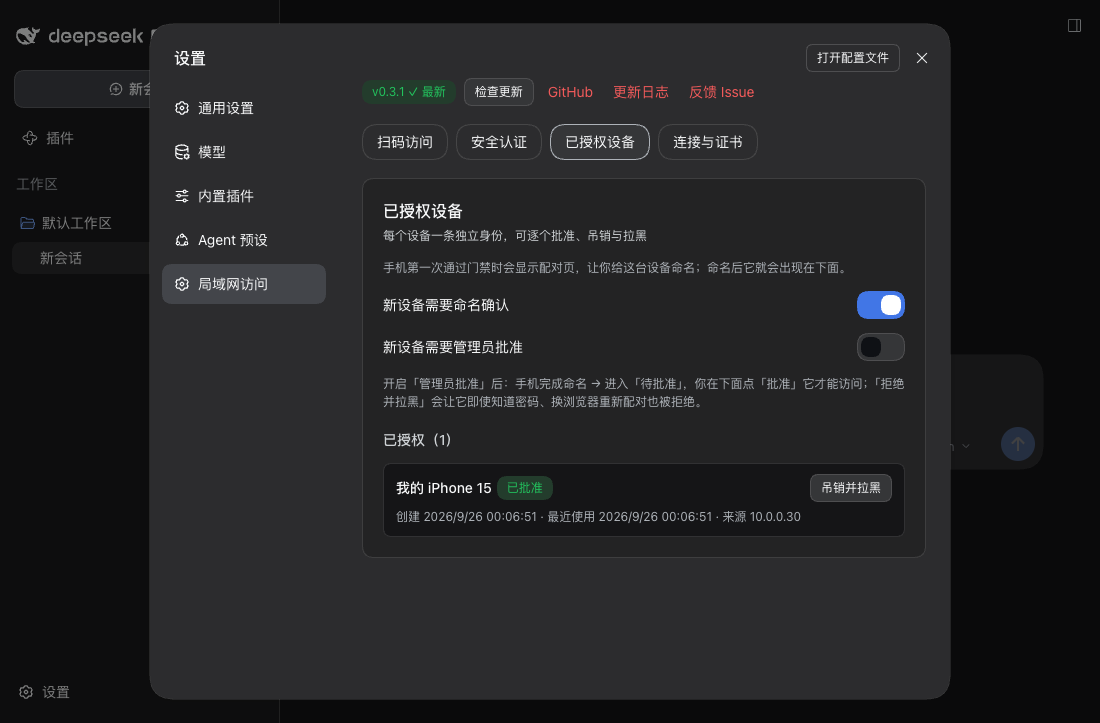
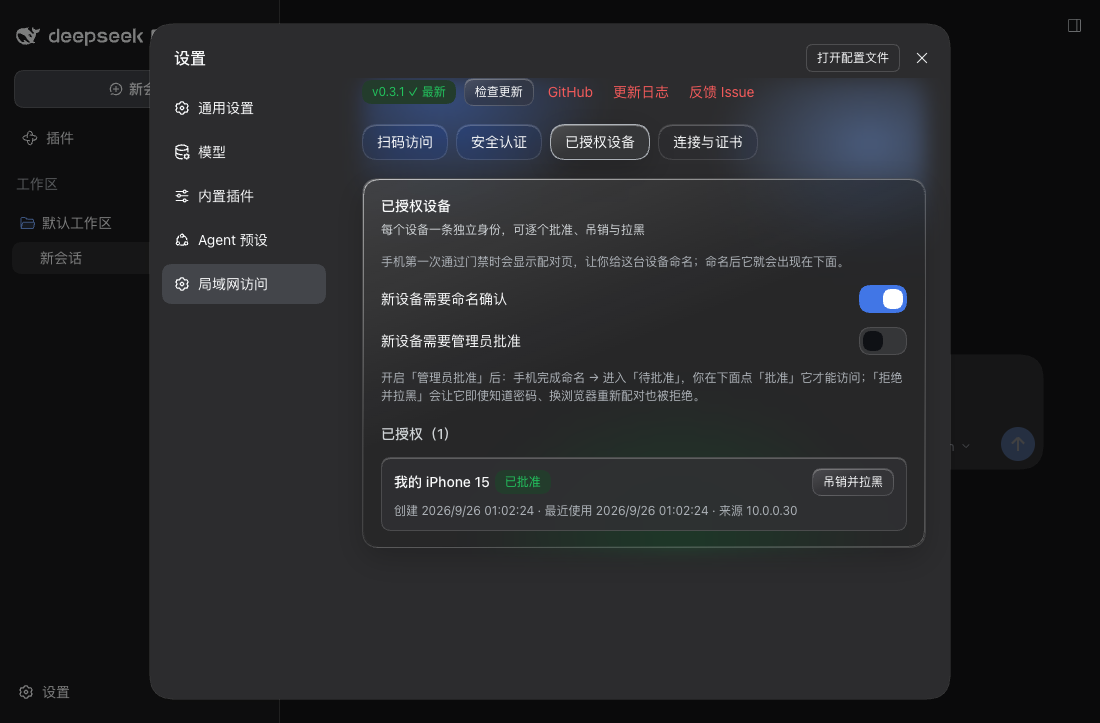
feat(ui): 设置页 Liquid Glass + 对齐 DSH 官方尺度 + 可复制字段单行滚动 (#1)
* feat(ui): 设置页 Liquid Glass 液体玻璃材质

毛玻璃 + 跟随主题的折射光晕 + 镜面渐变描边 + 分层投影，仅作用于插件自己的
设置分区（不替换任何官方布局）。

- 全部材质由官方令牌经 color-mix 派生，浅色/深色自动适配，不发明 token 名、
  不依赖内部属性（避免 2026-09-24 的对比度事故）
- 每个表面先声明纯色令牌回退，再声明玻璃层：color-mix / backdrop-filter 不受
  支持时后一条在解析期被丢弃，卡片退回完全可读的令牌表面
- 镜面边缘用 mask 只保留 1px 边框环；光晕层 inset:0，不给官方弹窗引入溢出
- 二维码底板刻意保持不透明（半透明会降低对比度、可能扫不出来）
- 实测：getComputedStyle 确认 backdrop-filter=blur(20px) saturate(1.8)、
  深浅色 tint 分别解析为 #232324 62% / #fff 62%、镜面渐变与 mask 生效、
  .lg-qr 背景为 rgb(255,255,255)；深浅色各截图确认
- pnpm test 241 项全绿，pnpm run build 通过

* fix(ui): 设置页尺寸对齐 DSH 官方尺度，提示条按钮不再折行

实测官方设置页：控件 36px 高 / 14px-22px / 字重 400 / 圆角 12px
（--dsw-radius-md）；插件此前是 44px / 500 字重 / 10px 圆角 / 卡片标题 16px，
因此观感偏大。全部照官方实测值对齐，不发明新尺度。

- 控件 44→36px，内边距 0 16px→0 14px，圆角 10px→var(--dsw-radius-md,12px)，
  按钮字重 500→400
- 卡片标题 16px/24px→14px/22px（与官方 section 标签、.lg-label 统一），
  字段标签 13→14px，卡片内边距 20px→16px 18px，选择卡/设备行/升级面板圆角→12px
- 提示条按钮：32px 高 / 13px / 400 + flex:0 0 auto + white-space:nowrap；
  文本 flex:1 1 16ch;min-width:0，故文本在自身内部换行、按钮永远整行；
  .lg-bar 加 flex-wrap:wrap 作极窄容器的降级
- 触屏仍保留既有 44px 最小高度（@media hover:none/pointer:coarse 未动）

实测：1100px 与 820px（弹窗内容区 536px）两档，按钮 scrollWidth===clientWidth
（不折行）；控件高度/字号/字重/圆角与官方设置页一致。pnpm test 241 项全绿。

* feat(ui): 可复制字段改为单行横向滚动（访问地址 / 升级命令）

访问地址此前在卡片里硬折行成两行，占掉垂直空间。现改为单行可横向滚动的
字段，框高由约 62px 降到 42px。

- 新增 .lg-mono-scroll：white-space:nowrap + overflow-x:auto + word-break:normal
  （规则放在 .lg-mono 之后以确保覆盖其 break-all），6px 细滚动条、cursor:text、
[…]

Changed region(s): [[0.34, 0.3956, 0.8345, 0.7607], [0.3091, 0.0913, 0.7727, 0.426], [0.68, 0.0913, 0.8655, 0.3043]]

diff --git a/src/client.ts b/src/client.ts
@@ -146,7 +146,31 @@ const CSS = `
  * official --dsw-alias-* variables, and only the URL box overrides the family
  * (with the official code font).
  */
-.lg-root{max-width:790px;display:flex;flex-direction:column;gap:18px}
+.lg-root{max-width:790px;display:flex;flex-direction:column;gap:18px;
+  /* Liquid Glass (user request 2026-09-26). One material definition, every
+     value DERIVED from official tokens through color-mix, so the same rules
+     follow the light/dark palette with no theme branch and no invented token
+     name (see the 2026-09-24 contrast incident). Each surface below still
+     declares its solid token colour FIRST: if color-mix or backdrop-filter is
+     unsupported the later declaration is dropped at parse time and the card
+     stays a plain, fully legible token surface. */
+  --lg-blur:blur(20px) saturate(180%);
+  --lg-tint:color-mix(in srgb, var(--dsw-alias-bg-layer-1,#fff) 62%, transparent);
+  --lg-tint-soft:color-mix(in srgb, var(--dsw-alias-bg-layer-3,#f1f2f4) 62%, transparent);
+  --lg-edge:color-mix(in srgb, var(--dsw-alias-label-primary,#1f2329) 14%, transparent);
+  --lg-sheen:linear-gradient(158deg, color-mix(in srgb, #fff 12%, transparent) 0%, transparent 46%);
+  --lg-lift:0 10px 30px color-mix(in srgb, #000 20%, transparent),
+           inset 0 1px 0 color-mix(in srgb, #fff 30%, transparent),
+           inset 0 -1px 0 color-mix(in srgb, #000 7%, transparent);
+  position:relative;isolation:isolate}
+/* The light the glass refracts. Scoped to this plugin's own subtree and kept
+   at inset:0 so it can never add overflow to the official settings dialog. */
+.lg-root::before{content:'';position:absolute;inset:0;z-index:-1;pointer-events:none;border-radius:24px;
+  background:
+    radial-gradient(42% 36% at 14% 3%, color-mix(in srgb, var(--dsw-static-deepseek-500,#4176e6) 44%, transparent), transparent 70%),
+    radial-gradient(38% 32% at 90% 14%, color-mix(in srgb, var(--dsw-alias-state-business-primary,#1a3f8f) 38%, transparent), transparent 72%),
+    radial-gradient(50% 44% at 56% 100%, color-mix(in srgb, var(--dsw-alias-state-success-primary,#1b5e20) 30%, transparent), transparent 74%);
+  filter:blur(10px)}
 /*
  * Tab bar = the OFFICIAL segmented-control pattern (the 外观 浅色/深色/跟随系统
  * selector in 通用设置): every item keeps the SAME font and the SAME
@@ -158,14 +182,33 @@ const CSS = `
 .lg-tabs{display:flex;gap:8px;flex-wrap:wrap}
 .lg-tab{font:var(--dsw-font-s-14,14px/22px sans-serif);cursor:pointer;
   color:var(--dsw-alias-label-primary,#1f2329);background:transparent;
-  border:0.5px solid var(--dsw-alias-border-l2,#e5e6eb);border-radius:20px;padding:6px 14px}
+  border:0.5px solid var(--dsw-alias-border-l2,#e5e6eb);border-radius:20px;padding:6px 14px;
+  backdrop-filter:blur(10px) saturate(150%);-webkit-backdrop-filter:blur(10px) saturate(150%);
+  box-shadow:inset 0 1px 0 color-mix(in srgb, #fff 22%, transparent)}
 .lg-tab[aria-selected=true]{background:var(--dsw-alias-bg-layer-3,#f1f2f4);
-  border-color:var(--dsw-alias-label-tertiary,#adb2b8)}
+  border-color:var(--dsw-alias-label-tertiary,#adb2b8);
+  background-image:var(--lg-sheen);box-shadow:var(--lg-lift)}
 .lg-tabbody{display:flex;flex-direction:column;gap:18px}
 .lg-card{background:var(--dsw-alias-bg-layer-1,#fff);border:1px solid var(--dsw-alias-border-l2,#e5e6eb);
-  border-radius:14px;padding:20px}
+  border-radius:20px;padding:16px 18px;
+  background-color:var(--lg-tint);background-image:var(--lg-sheen);
+  border-color:var(--lg-edge);
+  backdrop-filter:var(--lg-blur);-webkit-backdrop-filter:var(--lg-blur);
+  box-shadow:var(--lg-lift);position:relative}
+/* Specular rim: a 1px gradient edge that is bright where the "light" enters
+   and fades away from it — the part of Liquid Glass that reads as glass rather
+   than as a plain translucent panel. Masked to the border ring only. */
+.lg-card::after,.lg-choice::after{content:'';position:absolute;inset:0;border-radius:inherit;padding:1px;
+  background:linear-gradient(152deg,
+    color-mix(in srgb, #fff 55%, transparent) 0%,
+    color-mix(in srgb, #fff 8%, transparent) 38%,
+    transparent 62%,
+    color-mix(in srgb, #fff 22%, transparent) 100%);
+  -webkit-mask:linear-gradient(#000 0 0) content-box, linear-gradient(#000 0 0);
+  -webkit-mask-composite:xor;mask:linear-gradient(#000 0 0) content-box, linear-gradient(#000 0 0);
+  mask-composite:exclude;pointer-events:none}
 .lg-head{display:flex;align-items:flex-start;justify-content:space-between;gap:12px}
-.lg-title{font:var(--dsw-font-base-strong-16,500 16px/24px sans-serif);margin:0;
+.lg-title{font:var(--dsw-font-s-strong-14,500 14px/22px sans-serif);margin:0;
   color:var(--dsw-alias-label-primary,#1f2329)}
 .lg-sub{font:var(--dsw-font-xxs-12,12px/18px sans-serif);margin:4px 0 0;
   color:var(--dsw-alias-label-secondary,#6b7280)}
@@ -173,25 +216,53 @@ const CSS = `
   font:var(--dsw-font-xxs-12,12px/18px sans-serif);white-space:nowrap;
   background:var(--dsw-alias-state-success-tertiary,#e8f5e9);color:var(--dsw-alias-state-success-primary,#1b5e20)}
 .lg-pill.off{background:var(--dsw-alias-bg-layer-3,#f1f2f4);color:var(--dsw-alias-label-secondary,#6b7280)}
-.lg-bar{display:flex;align-items:center;gap:8px;justify-content:space-between;margin-top:16px;padding:10px 12px;
-  border-radius:10px;font:var(--dsw-font-xs-13,13px/20px sans-serif);
+.lg-bar{display:flex;align-items:center;gap:10px;justify-content:space-between;flex-wrap:wrap;margin-top:16px;padding:8px 12px;
+  border-radius:var(--dsw-radius-md,12px);font:var(--dsw-font-xs-13,13px/20px sans-serif);
   background:var(--dsw-alias-state-success-tertiary,#e8f5e9);color:var(--dsw-alias-state-success-primary,#1b5e20)}
+/* The notice text shrinks and wraps INSIDE itself; the action keeps its
+   intrinsic width and never breaks mid-label (user report 2026-09-26: the
+   button read "去设置访 / 问密码"). */
+/* A non-zero basis keeps the text from collapsing to nothing, so a tight
+   container wraps the ACTION to its own line instead of squeezing it. */
+.lg-bar>span:first-child{flex:1 1 16ch;min-width:0}
+.lg-bar .lg-btn{flex:0 0 auto;white-space:nowrap;height:32px;padding:0 12px;
+  font:var(--dsw-font-xs-13,13px/20px sans-serif);font-weight:400}
 .lg-bar-compact{margin-top:0;padding:6px 10px}
 .lg-bar.info{background:var(--dsw-alias-state-business-tertiary,#e8f0fe);color:var(--dsw-alias-state-business-primary,#1a3f8f)}
 .lg-bar.warn{background:var(--dsw-alias-state-warn-tertiary,#fffbeb);color:var(--dsw-alias-state-warn-label,#92400e)}
 .lg-bar.danger{background:var(--dsw-alias-interactive-bg-hover-danger,#fef2f2);color:var(--dsw-alias-state-error-primary,#b91c1c)}
 .lg-mono-sm{font:var(--dsw-font-xxs-12,12px/18px sans-serif)}
-.lg-mono{margin-top:14px;padding:10px 12px;border-radius:10px;background:var(--dsw-alias-bg-base,#f1f2f4);
+.lg-mono{margin-top:14px;padding:10px 12px;border-radius:12px;background:var(--dsw-alias-bg-base,#f1f2f4);
   border:1px solid var(--dsw-alias-border-l2,#e5e6eb);
+  background-color:color-mix(in srgb, var(--dsw-alias-bg-base,#f1f2f4) 70%, transparent);
+  border-color:var(--lg-edge);
+  backdrop-filter:blur(12px) saturate(150%);-webkit-backdrop-filter:blur(12px) saturate(150%);
+  box-shadow:inset 0 1px 2px color-mix(in srgb, #000 10%, transparent),
+             inset 0 1px 0 color-mix(in srgb, #fff 18%, transparent);
   font:var(--dsw-font-xs-13,13px/20px sans-serif);
   font-family:var(--ds-font-family-code,ui-monospace,SFMono-Regular,Menlo,monospace);
   word-break:break-all;color:var(--dsw-alias-label-primary,#1f2329)}
+/* Copyable values (the access URL, the upgrade command) are SINGLE-LINE fields:
+   no hard wrapping, horizontal scrolling instead, so a long URL can no longer
+   push the rest of the card down (user request 2026-09-26). Scrolling never
+   truncates what you get — the copy button writes the source string, never the
+   rendered text — and the thin scrollbar makes "there is more to the right"
+   visible. Dragging inside the field selects and auto-scrolls, like a text box. */
+.lg-mono-scroll{white-space:nowrap;overflow-x:auto;overflow-y:hidden;word-break:normal;
+  cursor:text;scrollbar-width:thin}
+.lg-mono-scroll::-webkit-scrollbar{height:6px}
+.lg-mono-scroll::-webkit-scrollbar-track{background:transparent}
+.lg-mono-scroll::-webkit-scrollbar-thumb{border-radius:999px;
+  background:color-mix(in srgb, var(--dsw-alias-label-tertiary,#adb2b8) 55%, transparent)}
 .lg-row{display:flex;gap:10px;margin-top:12px}
 /* auto-fit: two options (TLS) fill the row evenly instead of leaving a third
    of the row empty, and three options (mode) still fit on one line. */
 .lg-grid{display:grid;grid-template-columns:repeat(auto-fit,minmax(190px,1fr));gap:10px;margin-top:12px}
-.lg-choice{text-align:left;cursor:pointer;border-radius:12px;padding:14px;background:var(--dsw-alias-bg-layer-1,#fff);
-  border:1px solid var(--dsw-alias-border-l2,#e5e6eb);color:inherit}
+.lg-choice{text-align:left;cursor:pointer;border-radius:var(--dsw-radius-md,12px);padding:12px 14px;background:var(--dsw-alias-bg-layer-1,#fff);
+  border:1px solid var(--dsw-alias-border-l2,#e5e6eb);color:inherit;
+  background-color:var(--lg-tint);background-image:var(--lg-sheen);border-color:var(--lg-edge);
+  backdrop-filter:var(--lg-blur);-webkit-backdrop-filter:var(--lg-blur);box-shadow:var(--lg-lift);
+  position:relative}
 .lg-choice[aria-pressed=true]{border:2px solid var(--dsw-static-deepseek-500,#4f46e5);
   background:var(--dsw-alias-interactive-bg-hover,#eef0ff)}
 .lg-choice h4{font:var(--dsw-font-s-strong-14,500 14px/22px sans-serif);margin:0 0 6px;
@@ -199,19 +270,30 @@ const CSS = `
 .lg-choice p{font:var(--dsw-font-xxs-12,12px/18px sans-serif);margin:0;
   color:var(--dsw-alias-label-secondary,#6b7280)}
 .lg-field{display:flex;flex-direction:column;gap:6px;margin-top:14px}
-.lg-label{font:var(--dsw-font-xs-13,13px/20px sans-serif);color:var(--dsw-alias-label-secondary,#6b7280)}
-.lg-input{box-sizing:border-box;height:44px;padding:0 12px;border-radius:10px;border:1px solid var(--dsw-alias-border-l2,#d0d3d9);
+.lg-label{font:var(--dsw-font-s-14,14px/22px sans-serif);color:var(--dsw-alias-label-secondary,#6b7280)}
+.lg-input{box-sizing:border-box;height:36px;padding:0 14px;border-radius:var(--dsw-radius-md,12px);border:1px solid var(--dsw-alias-border-l2,#d0d3d9);
   font:var(--dsw-font-s-14,14px/22px sans-serif);
-  background:var(--dsw-alias-bg-base,#fff);color:var(--dsw-alias-label-primary,#1f2329)}
-.lg-btn{box-sizing:border-box;height:44px;padding:0 16px;border:0;border-radius:10px;cursor:pointer;
-  font:var(--dsw-font-s-strong-14,500 14px/22px sans-serif);
+  background:var(--dsw-alias-bg-base,#fff);color:var(--dsw-alias-label-primary,#1f2329);
+  background-color:color-mix(in srgb, var(--dsw-alias-bg-base,#fff) 74%, transparent);
+  border-color:var(--lg-edge);
+  backdrop-filter:blur(12px) saturate(150%);-webkit-backdrop-filter:blur(12px) saturate(150%);
+  box-shadow:inset 0 1px 2px color-mix(in srgb, #000 9%, transparent),
+             inset 0 1px 0 color-mix(in srgb, #fff 20%, transparent)}
+.lg-btn{box-sizing:border-box;height:36px;padding:0 14px;border:0;border-radius:var(--dsw-radius-md,12px);cursor:pointer;
+  font:var(--dsw-font-s-14,14px/22px sans-serif);
   /* Brand blue + the official white token (both are official variables): the
      reference implementation's primary action colour, chosen by the user
      2026-09-24 over the theme-dependent near-white default. */
   background:var(--dsw-static-deepseek-500,#4176e6);
-  color:var(--dsw-static-neutral-bluish-00,#fff)}
+  color:var(--dsw-static-neutral-bluish-00,#fff);
+  background-image:linear-gradient(180deg, color-mix(in srgb, #fff 22%, transparent), transparent 62%);
+  box-shadow:0 6px 18px color-mix(in srgb, var(--dsw-static-deepseek-500,#4176e6) 32%, transparent),
+             inset 0 1px 0 color-mix(in srgb, #fff 36%, transparent)}
 .lg-btn.secondary{background:var(--dsw-alias-bg-layer-3,#fff);color:var(--dsw-alias-label-primary,#1f2329);
-  border:1px solid var(--dsw-alias-border-l2,#d0d3d9)}
+  border:1px solid var(--dsw-alias-border-l2,#d0d3d9);
+  background-color:var(--lg-tint-soft);background-image:var(--lg-sheen);border-color:var(--lg-edge);
+  backdrop-filter:blur(12px) saturate(150%);-webkit-backdrop-filter:blur(12px) saturate(150%);
+  box-shadow:inset 0 1px 0 color-mix(in srgb, #fff 26%, transparent)}
 .lg-btn:disabled{opacity:.55;cursor:not-allowed}
 .lg-btn.full{width:100%}
 .lg-btn-small{height:28px;padding:0 10px;white-space:nowrap;flex-shrink:0;font:var(--dsw-font-xxs-12,12px/18px sans-serif)}
@@ -227,7 +309,9 @@ const CSS = `
 /* The white plate HUGS the code (fit-content + auto margins) instead of
    stretching across the card, and the code is a compact 190px — matching the
    reference implementation's proportions (user feedback 2026-09-24). */
-.lg-qr{margin:14px auto 0;padding:10px;border-radius:10px;background:#fff;
+/* Deliberately OPAQUE: a QR code on a translucent plate loses contrast and
+   may stop scanning. Never give this rule a glass treatment. */
+.lg-qr{margin:14px auto 0;padding:10px;border-radius:12px;background:#fff;
   border:1px solid var(--dsw-alias-border-l2,#e5e6eb);width:fit-content}
 .lg-qr svg{display:block;width:190px;height:190px}
 .lg-hint{font:var(--dsw-font-xxs-12,12px/18px sans-serif);margin:14px 0 0;
@@ -251,8 +335,11 @@ const CSS = `
 .lg-link{color:var(--dsw-alias-label-secondary,#6b7280);text-decoration:none;
   font:var(--dsw-font-xxs-12,12px/18px sans-serif)}
 .lg-link:hover{color:var(--dsw-alias-label-primary,#1f2329)}
-.lg-update-panel{margin:0;padding:12px;border-radius:10px;
-  background:var(--dsw-alias-layer-2,#f1f2f4);border:1px solid var(--dsw-alias-border-l2,#e5e6eb)}
+.lg-update-panel{margin:0;padding:12px;border-radius:var(--dsw-radius-md,12px);
+  background:var(--dsw-alias-layer-2,#f1f2f4);border:1px solid var(--dsw-alias-border-l2,#e5e6eb);
+  background-color:var(--lg-tint-soft);background-image:var(--lg-sheen);border-color:var(--lg-edge);
+  backdrop-filter:blur(14px) saturate(150%);-webkit-backdrop-filter:blur(14px) saturate(150%);
+  box-shadow:inset 0 1px 0 color-mix(in srgb, #fff 24%, transparent)}
 .lg-update-title{font:var(--dsw-font-s-strong-14,500 14px/22px sans-serif);
   color:var(--dsw-alias-label-primary,#1f2329);margin-bottom:8px}
 .lg-sec-title{margin:18px 0 2px;font:var(--dsw-font-s-strong-14,500 14px/22px sans-serif);
@@ -261,8 +348,11 @@ const CSS = `
 .lg-chip.wait{background:var(--dsw-alias-state-warn-tertiary,#3a2f16);color:var(--dsw-alias-state-warn-label,#fbbf24)}
 .lg-chip.ban{background:var(--dsw-static-red-600-a08,#ec13131f);color:var(--dsw-static-red-400,#f25a5a)}
 .lg-danger{color:var(--dsw-static-red-400,#f25a5a);border-color:var(--dsw-static-red-400,#f25a5a)}
-.lg-device{display:block;margin-top:12px;padding:10px 12px;border-radius:10px;
-  background:var(--dsw-alias-bg-base,#f1f2f4);border:1px solid var(--dsw-alias-border-l2,#e5e6eb)}
+.lg-device{display:block;margin-top:12px;padding:10px 12px;border-radius:var(--dsw-radius-md,12px);
+  background:var(--dsw-alias-bg-base,#f1f2f4);border:1px solid var(--dsw-alias-border-l2,#e5e6eb);
+  background-color:var(--lg-tint-soft);border-color:var(--lg-edge);
+  backdrop-filter:blur(12px) saturate(150%);-webkit-backdrop-filter:blur(12px) saturate(150%);
+  box-shadow:inset 0 1px 0 color-mix(in srgb, #fff 22%, transparent)}
 .lg-device-head{display:flex;align-items:center;justify-content:space-between;gap:12px}
 .lg-name-chip{display:inline-flex;align-items:center;min-width:0}
 .lg-device-actions{display:inline-flex;align-items:center;gap:8px;flex-shrink:0}
@@ -606,7 +696,11 @@ function SettingsSection(): ReactElement {
                 + '门禁此刻拒绝所有设备，不会泄露数据；请先设置访问密码')),
           hasPassword ? null : goSecurity,
         ]),
-        createElement('div', { className: 'lg-mono', key: 'url' }, scanUrl ?? '—'),
+        createElement('div', {
+          className: 'lg-mono lg-mono-scroll',
+          key: 'url',
+          title: scanUrl ?? '',
+        }, scanUrl ?? '—'),
         createElement('div', { className: 'lg-row', key: 'copy' }, [
           createElement('button', {
             key: 'c',
@@ -1039,8 +1133,11 @@ function SettingsSection(): ReactElement {
     : createElement('div', { className: 'lg-update-panel', key: 'updatepanel' }, [
       createElement('div', { key: 't', className: 'lg-update-title' },
         `发现新版本 v${String(update.latest)}（当前 v${update.current}）`),
-      createElement('div', { key: 'c', className: 'lg-mono' },
-        `dsh plugin --profile web add dsh-lan-guard@${String(update.latest)}`),
+      createElement('div', {
+        key: 'c',
+        className: 'lg-mono lg-mono-scroll',
+        title: `dsh plugin --profile web add dsh-lan-guard@${String(update.latest)}`,
+      }, `dsh plugin --profile web add dsh-lan-guard@${String(update.latest)}`),
       createElement('div', { className: 'lg-row', key: 'r' }, [
         createElement('button', {
           key: 'cp',

diff --git a/CHANGELOG.md b/CHANGELOG.md
@@ -20,6 +20,66 @@
 - **测试套件全部显式绑 `127.0.0.1`**：默认值变了之后，测试必须自己声明回环，绝不允许测试进程打开对外监听。改动前那批用例会因「非回环 + 关 TLS」被 `parseConfig` 直接拒绝而失败——失败是安全的，没有真的绑上 `0.0.0.0`；
 - 测试：`pnpm test` **241 项**全绿。
 
+### 新增 — 设置页 Liquid Glass（液体玻璃）材质（2026-09-26 用户要求）
+
+设置页「局域网访问」分区整体改为液体玻璃质感：毛玻璃（`backdrop-filter`）+ 跟随主题的折射光晕 + 镜面渐变描边 + 分层投影。
+
+- **全部材质由官方令牌经 `color-mix` 派生**，因此浅色/深色自动适配，**不依赖任何内部属性、不发明任何 token 名**（避免 2026-09-24 的对比度事故重演）；
+- 每个表面**先声明纯色令牌回退**，再声明玻璃层：`color-mix` 或 `backdrop-filter` 不受支持时，后一条在解析期被丢弃，卡片退回为完全可读的令牌表面；
+- 镜面边缘用 mask 只保留 1px 边框环（`.lg-card::after` / `.lg-choice::after`），光晕是插件自己子树内的装饰层（`inset:0`，**不会给官方设置弹窗引入溢出**）；
+- **二维码底板刻意保持不透明**：半透明底板会降低对比度、可能导致扫不出来（已在 CSS 里写明禁止玻璃化）；
+- 实测（真实 DSH，浏览器读 `getComputedStyle`）：深色 `--lg-tint=color-mix(in srgb,#232324 62%,transparent)`、浅色 `#fff 62%`；`backdropFilter=blur(20px) saturate(1.8)`；镜面描边的渐变与 mask 均生效；`.lg-qr` 背景为 `rgb(255,255,255)`；深浅色各截图确认。
+
+### 修复 — 设置页尺寸偏大、提示条按钮折行（2026-09-26 用户反馈）
+
+**症状**：液体玻璃版落地后，设置页「字体、按钮都偏大」；且「端口已对局域网开放…」这一行右侧的「去设置访问密码」按钮**折成两行**（`去设置访` / `问密码`）。
+
+**根因（实测对比官方设置页）**：插件自定的控件尺度比 DSH 官方设置页大一档——官方实测 **控件 36px 高 / 14px-22px / 字重 400 / 圆角 12px（`--dsw-radius-md`）**，而插件是 **44px 高 / 到处 500 字重 / 10px 圆角 / 卡片标题 16px**。按钮折行则是 `.lg-bar` 里 `justify-content:space-between` + 按钮没有 `flex:0 0 auto` / `white-space:nowrap`，长文本把按钮挤窄后文字在按钮内部换行。
+
+**改动**（全部照官方实测值对齐，不发明新尺度）：
+
+- 控件高度 44px → **36px**；内边距 `0 16px` → `0 14px`；圆角 10px → **`var(--dsw-radius-md,12px)`**；按钮字重 500 → **400**（官方按钮/下拉均为 400）；
+- 卡片标题 16px/24px → **14px/22px**（官方 section 标签就是 14px/22px，与 `.lg-label` 统一）；字段标签 13px → **14px/22px**；卡片内边距 20px → **16px 18px**；选择卡/设备行/升级面板圆角统一到 12px；
+- **提示条按钮**：`.lg-bar .lg-btn` 固定 `height:32px`（官方词汇里的紧凑尺寸）、`padding:0 12px`、13px/400、`flex:0 0 auto` + `white-space:nowrap`；文本改为 `flex:1 1 16ch;min-width:0`，因此**文本在自身内部换行、按钮永远保持整行**；`.lg-bar` 加 `flex-wrap:wrap` 作降级（容器极窄时按钮整体换行而不是被压窄）；
+- **触屏仍保留 44px 最小高度**：既有 `@media (hover:none) and (pointer:coarse)` 规则未动，手机上的点击目标不会变小。
+
+**实测**（真实 DSH，`getComputedStyle` + 截图）：
+
+| 项 | 官方设置页 | 插件（改后） |
+| --- | --- | --- |
+| 控件高度 | 36px | **36px** |
+| 控件字号/字重 | 14px / 400 | **14px / 400** |
+| 圆角 | 12px | **12px** |
+| 卡片标题 | （section 标签 14px/400） | **14px/500** |
+| 提示条按钮 | — | 32px / 13px / 400，`scrollWidth === clientWidth`（**不折行**） |
+
+窗口 1100px 与 820px（弹窗内容区 536px）两档均验证按钮不折行、文字在自身内部换行。
+
+> 顺带记录一个**不是本插件的问题**：DSH 官方设置弹窗在 390px 视口下自身就会崩（导航列不折叠、内容被挤到约 63px 逐字竖排）。手机用户用的是代理出去的官方界面，不会打开这个弹窗。
+
+### 改进 — 可复制字段改为单行横向滚动（2026-09-26 用户要求）
+
+**症状**：访问地址在卡片里**硬折行成两行**，占掉垂直空间，能展示的内容变少。
+
+**改动**：新增 `.lg-mono-scroll`，应用于**所有"可复制字段"**——访问地址（扫码访问 tab）与升级命令（更新面板）：
+
+- `white-space:nowrap` + `overflow-x:auto` + `word-break:normal`（覆盖 `.lg-mono` 的 `break-all`，规则位置放在其后以确保生效）；
+- 6px 细滚动条（WebKit 伪元素 + `scrollbar-width:thin`），光标为 `cursor:text`，框内拖动即选中并自动横向滚动；
+- 加 `title` 属性，悬停可见完整值；
+- **复制仍然复制全文**：`copy()` 写入的是源字符串 `scanUrl`（即 DOM 里的完整值），与滚动位置、是否被裁剪无关；实测 DOM 文本长度 69，与端点返回的 `tokenUrl` 完全一致。
+
+**实测**（真实 DSH，`getComputedStyle`）：`white-space:nowrap`、`overflow-x:auto`、`word-break:normal`、`scrollWidth 564 > clientWidth 519`（确实可滚动）；框高从两行的约 62px 降到**单行 42px**。
+
+> 说明：macOS 的覆盖式滚动条默认只在滚动时出现；框内拖动会选中并自动横向滚动，另有 `title` 悬停提示，因此不额外加渐隐遮罩（渐隐在滚到末尾时反而像被截断）。
+
+### 文档 — 刷新 5 张 README 截图（2026-09-26）
+
+`assets/` 下的设置页截图按**当前代码**（液体玻璃 + 官方尺度）重拍，替换此前仍是平面样式的旧图；`screenshots.json` 声明的 5 张路径不变。
+
+- 截图取自**零配置**的临时 DSH 实例（`dataDir`/`listenHost` 均未配置；仅固定了 `listenPort` 以免把"3081 被占用"的测试环境告警拍进去）；
+- 图中免密链接的 token 是**占位值**（`dsh_0000…`），仓库内不含任何真实凭据；
+- `mobile.png` 重拍后与旧图逐字节相同（官方 UI 在 390px 下未变），因此本次未产生变更。
+
 ### 修复 — 安装后设置页显示 `settings request failed: 404`，插件根本没启动
 
 **症状**：`dsh plugin --profile web add dsh-lan-guard@0.3.1` 装好并重启 dsh 后，**设置 → 局域网访问** 只显示 `settings request failed: 404`。
